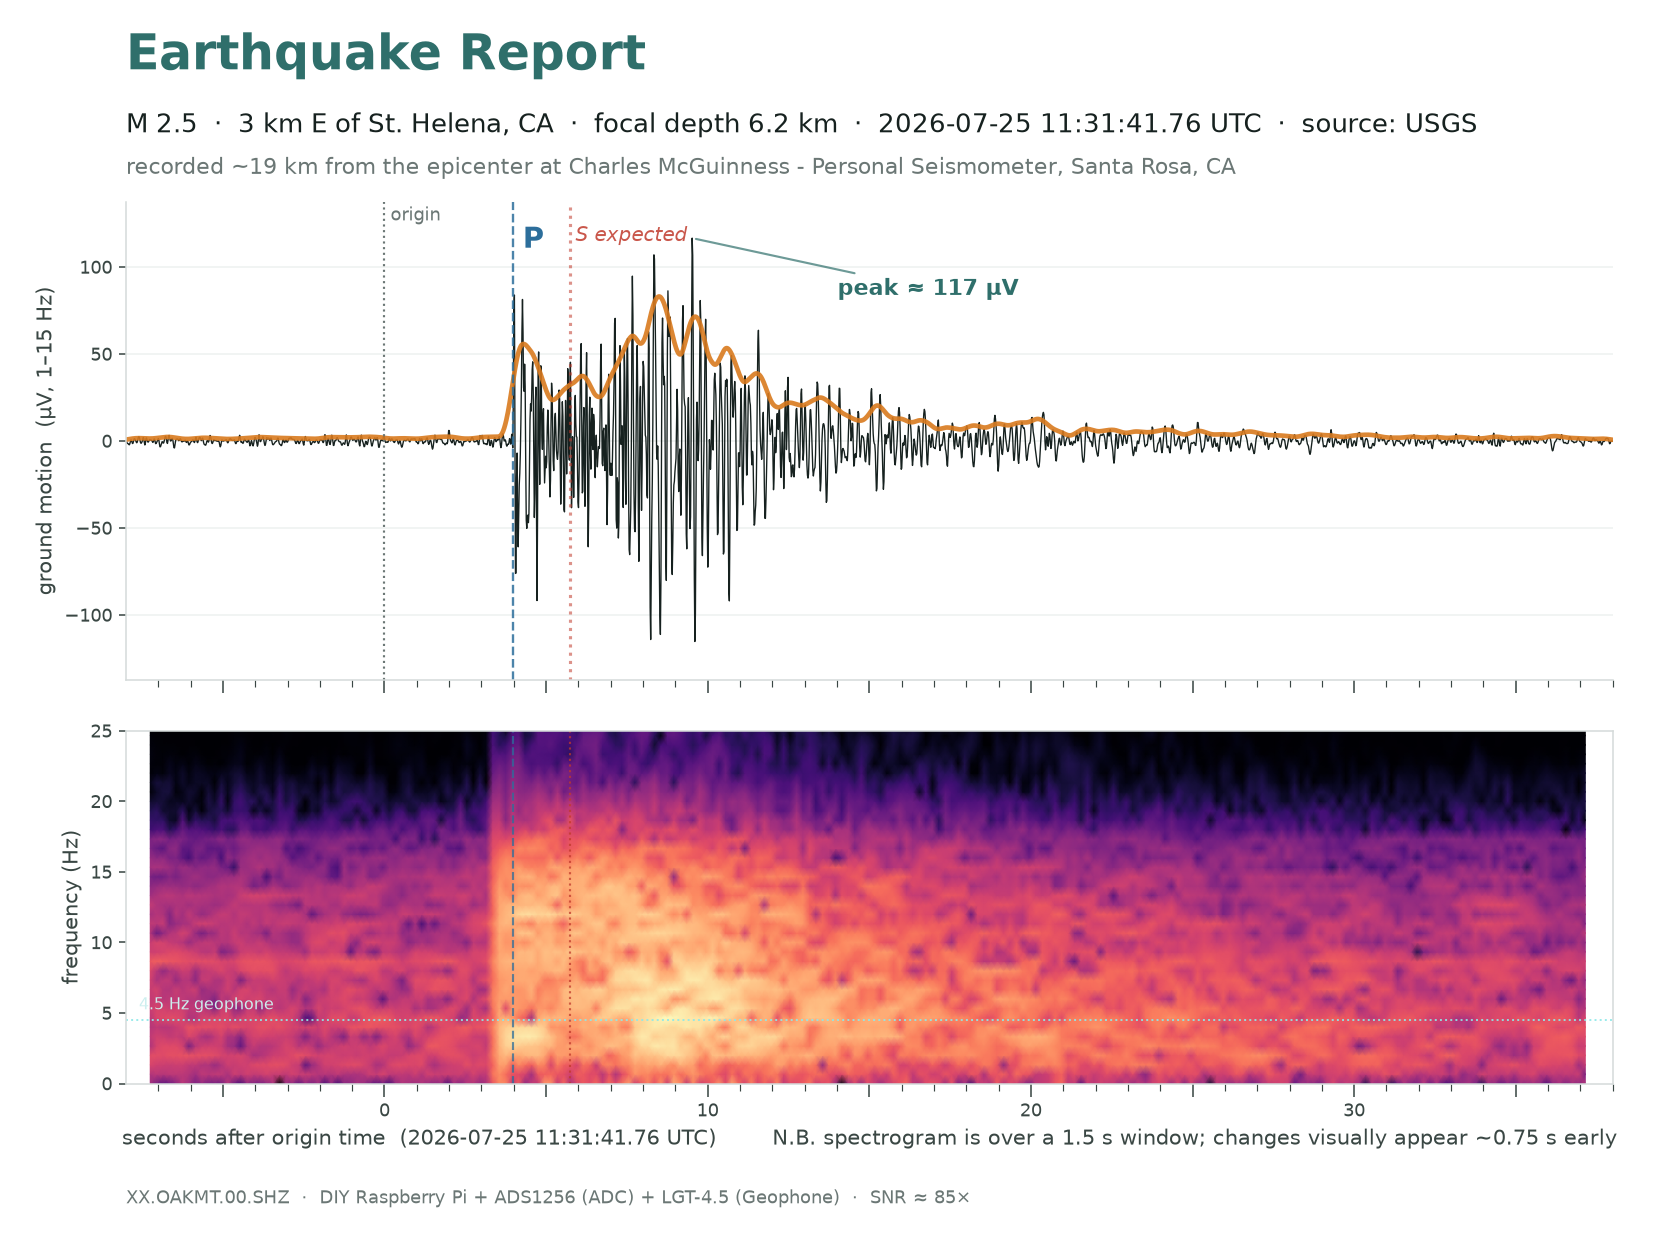
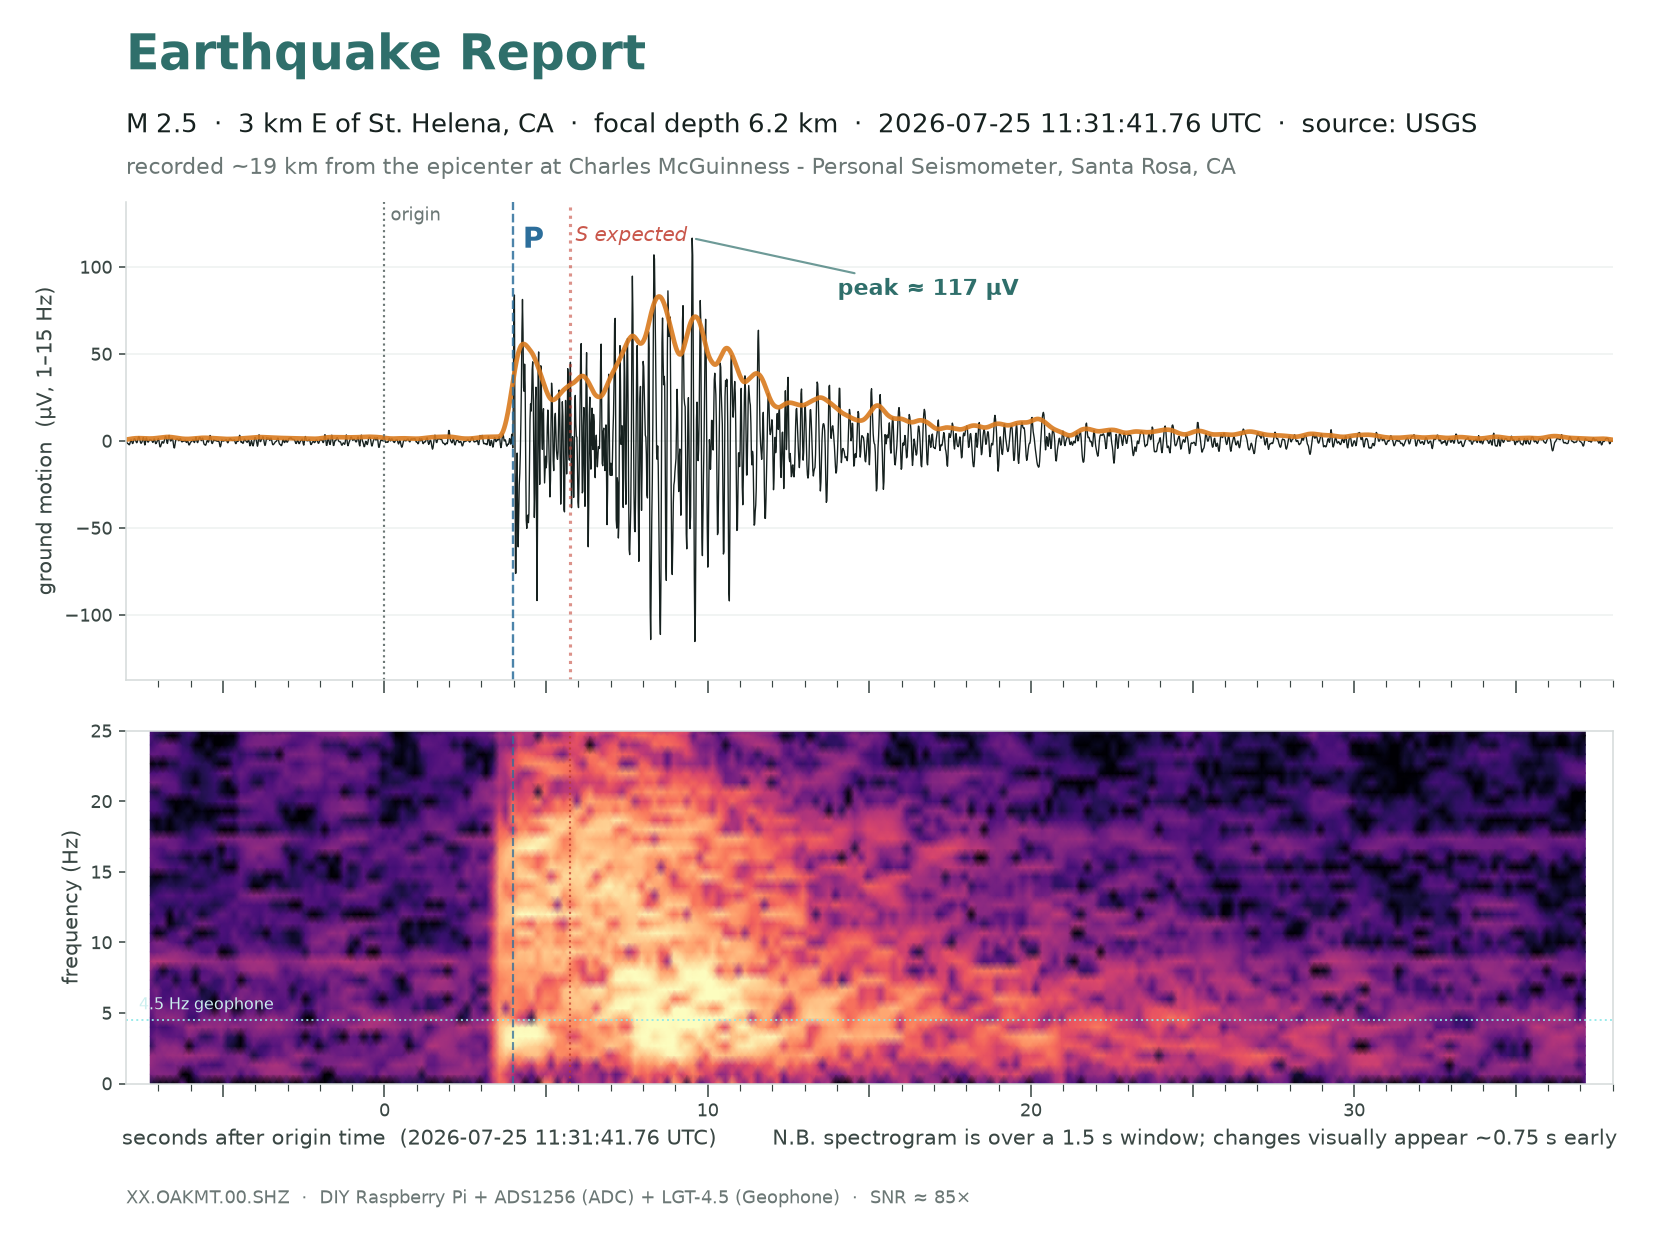
analysis: shared spectrogram standard (specgram.py), applied everywhere
Every spectrogram in the repo now goes through analysis/specgram.py so they
share one absolute colour ruler: magma, fixed -25..+25 dB, 1.5 s window /
0.2 s hop, 0-25 Hz, high-passed full-band uV. A fixed colour axis is the
point -- the same colour is the same absolute power in every figure, so a real
event and a non-detection can be laid side by side (matplotlib's default
auto-scaling re-normalises each plot and makes brightness meaningless across
figures).

- specgram.py: the standard as a single draw() function; deviate only with a
  documented reason.
- quake_share.py: replaced its inline spectrogram with specgram.draw(), fed the
  FULL-band uV (was the 1-15 Hz display bandpass, which left 15-25 Hz
  artificially empty).
- St. Helena report + Wyoming non-detection regenerated on the standard; both
  now comparable. reports/README documents the standard and catalogs the
  Wyoming non-detection as the local-only-envelope counter-example.

Changed region(s): [[0.0619, 0.5571, 0.9595, 0.8667]]

diff --git a/analysis/quake_share.py b/analysis/quake_share.py
@@ -31,6 +31,8 @@ import numpy as np
 import obspy
 from obspy import UTCDateTime
 
+import specgram   # project-standard spectrogram (fixed colour scale, window, band)
+
 # --- station + model defaults (override via CLI) -----------------------------
 STA_LAT, STA_LON = 38.435, -122.630          # Oakmont, Santa Rosa
 STA_LABEL = "Charles McGuinness - Personal Seismometer, Santa Rosa, CA"
@@ -161,6 +163,7 @@ def main():
     tr = st[0]
     fs = float(tr.stats.sampling_rate)
     uvpc = 2.5 * 2 / (args.gain * (2 ** 23 - 1)) * 1e6
+    uv_raw = (tr.data.astype(float) - float(tr.data.mean())) * uvpc  # full band, for the spectrogram
     tr.detrend("demean").filter("bandpass", freqmin=1.0,
                                 freqmax=min(15.0, fs / 2 * 0.99), corners=4, zerophase=True)
     uv = tr.data * uvpc
@@ -237,13 +240,7 @@ def main():
     # spectrogram panel (shares the time axis): shows the P/S/coda frequency evolution
     # and the high-frequency attenuation. Only the spectrogram -- not the noisy ASD.
     if axsp is not None:
-        from scipy.signal import spectrogram as _spectrogram
-        npg = int(1.5 * fs)                          # STFT window length (samples)
-        fsp, tsp, Sxx = _spectrogram(uv, fs=fs, nperseg=npg, noverlap=int(1.3 * fs))
-        axsp.pcolormesh(tsp + t[0], fsp, 10 * np.log10(Sxx + 1e-6),
-                        shading="gouraud", cmap="magma", rasterized=True)
-        ytop = min(fs / 2, 25)
-        axsp.set_ylim(0, ytop)
+        specgram.draw(axsp, uv_raw, fs, t0=t[0])     # project-standard spectrogram
         axsp.set_ylabel("frequency (Hz)", fontsize=11, color="#3a4744")
         axsp.axhline(4.5, color="#8fe9e9", ls=":", lw=1.0, alpha=0.9)
         axsp.text(t[0] + 0.4, 5.0, "4.5 Hz geophone", color="#cdefef", fontsize=8, va="bottom")
@@ -251,7 +248,7 @@ def main():
             if xt is not None:
                 axsp.axvline(xt, color=col, ls=ls, lw=1.1, alpha=0.75)
         axsp.tick_params(colors="#3a4744", labelsize=9)
-        spec_win_s = npg / fs                        # window length -> the N.B. on the axis line
+        spec_win_s = specgram.WINDOW_S               # window length -> the N.B. on the axis line
 
     # x-axis: per-second ticks (elongated at 5 s, labelled at 10 s) on the bottom panel
     bottom = axsp if axsp is not None else ax

diff --git a/analysis/specgram.py b/analysis/specgram.py
@@ -1,0 +1,44 @@
+"""specgram.py -- the project's STANDARD spectrogram, so every one we make is
+directly comparable. Import and call `draw()`; don't hand-roll spectrograms
+elsewhere. Deviate from these choices only with a documented reason.
+
+  colormap    magma
+  COLOR AXIS  -25 .. +25 dB   (10*log10 of PSD, (microvolt)^2/Hz, response-uncorrected)
+  window      1.5 s STFT, 0.2 s hop   -> ~0.67 Hz freq resolution, +/-0.75 s time smear
+  freq axis   0 .. 25 Hz   (below the 30 Hz Nyquist at 60 sps; revisit if fs changes)
+  input       ground motion in microVOLTS, high-passed at 0.7 Hz (DC/tilt removed),
+              FULL BAND (not the display bandpass) so content up to Nyquist is shown
+
+The fixed color axis is the whole point: the same colour is the same absolute power
+in every plot, so a real event and a non-detection sit on one ruler and can be laid
+side by side. (Matplotlib's default auto-scaling would silently re-normalise each
+plot to its own data, making brightness meaningless across figures.)
+"""
+import numpy as np
+from scipy.signal import butter, sosfiltfilt, spectrogram
+
+# --- the standard (change here, and every spectrogram changes together) ---
+VMIN_DB, VMAX_DB = -25.0, 25.0
+WINDOW_S = 1.5
+HOP_S = 0.2
+FMAX_HZ = 25.0
+HP_HZ = 0.7
+CMAP = "magma"
+
+
+def draw(ax, uv, fs, t0=0.0):
+    """Render the standard spectrogram of raw ground-motion `uv` (microvolts) at
+    sample rate `fs` onto `ax`. `t0` is the time of the first sample (sets the
+    x-axis origin). Returns the QuadMesh (for an optional colorbar)."""
+    x = np.asarray(uv, dtype=float)
+    x = x - np.mean(x)
+    sos = butter(2, HP_HZ / (fs / 2.0), btype="high", output="sos")
+    x = sosfiltfilt(sos, x)
+    npg = max(16, int(WINDOW_S * fs))
+    nov = npg - max(1, int(HOP_S * fs))
+    f, tt, sxx = spectrogram(x, fs=fs, nperseg=npg, noverlap=nov)
+    mesh = ax.pcolormesh(tt + t0, f, 10.0 * np.log10(sxx + 1e-6),
+                         shading="gouraud", cmap=CMAP,
+                         vmin=VMIN_DB, vmax=VMAX_DB, rasterized=True)
+    ax.set_ylim(0, min(fs / 2.0, FMAX_HZ))
+    return mesh

diff --git a/reports/README.md b/reports/README.md
@@ -43,3 +43,28 @@ kept here gets a descriptive name and is committed.
   # the USGS catalog -- no event id, no site lookup. A no-match => probably cultural noise.
     # envelope is on by default; --spectrogram stacks the time-frequency panel below (one image)
   ```
+
+## Non-detections (the envelope's other edge)
+
+### 2026-07-25 — M3.3, Little America, WY (~1140 km) · **not detected**
+
+![M3.3 Wyoming not detected](2026-07-25-wyoming-m3.3-not-detected.png)
+
+- A distant (~1140 km) M3.3. In the geophone band there is **no arrival** at the
+  predicted regional times — Pn(pred) +142 s and Lg(pred) +326 s both sit at ~1×
+  the pre-event noise (1-15 Hz: Pn 1.1×, Lg 1.4×; 1-5 Hz: 1.0×/1.0×). The two
+  bright bursts near +205 s and +290 s are **local cultural noise**: impulsive,
+  broadband to 25 Hz, and unaligned with either predicted phase. A source 1140 km
+  away cannot deliver 15-25 Hz energy (high frequencies attenuate first), so
+  broadband-impulsive is the signature of something local, not teleseismic.
+- This is the useful counter-example to the St. Helena hit: it pins down the
+  station's **local-only detection envelope**. Kept here so the two plots sit on the
+  **same spectrogram colour ruler** (see below) and can be compared directly.
+
+## Spectrogram standard
+
+Every spectrogram in this repo is drawn by [`analysis/specgram.py`](../analysis/specgram.py)
+so they share one absolute colour scale (magma, fixed **−25 .. +25 dB**, 1.5 s window /
+0.2 s hop, 0–25 Hz, high-passed full-band µV). The fixed axis is the point: the same
+colour is the same absolute power in every figure, so a real event and a non-detection
+lie on one ruler. Don't hand-roll spectrograms elsewhere — import `specgram.draw()`.
